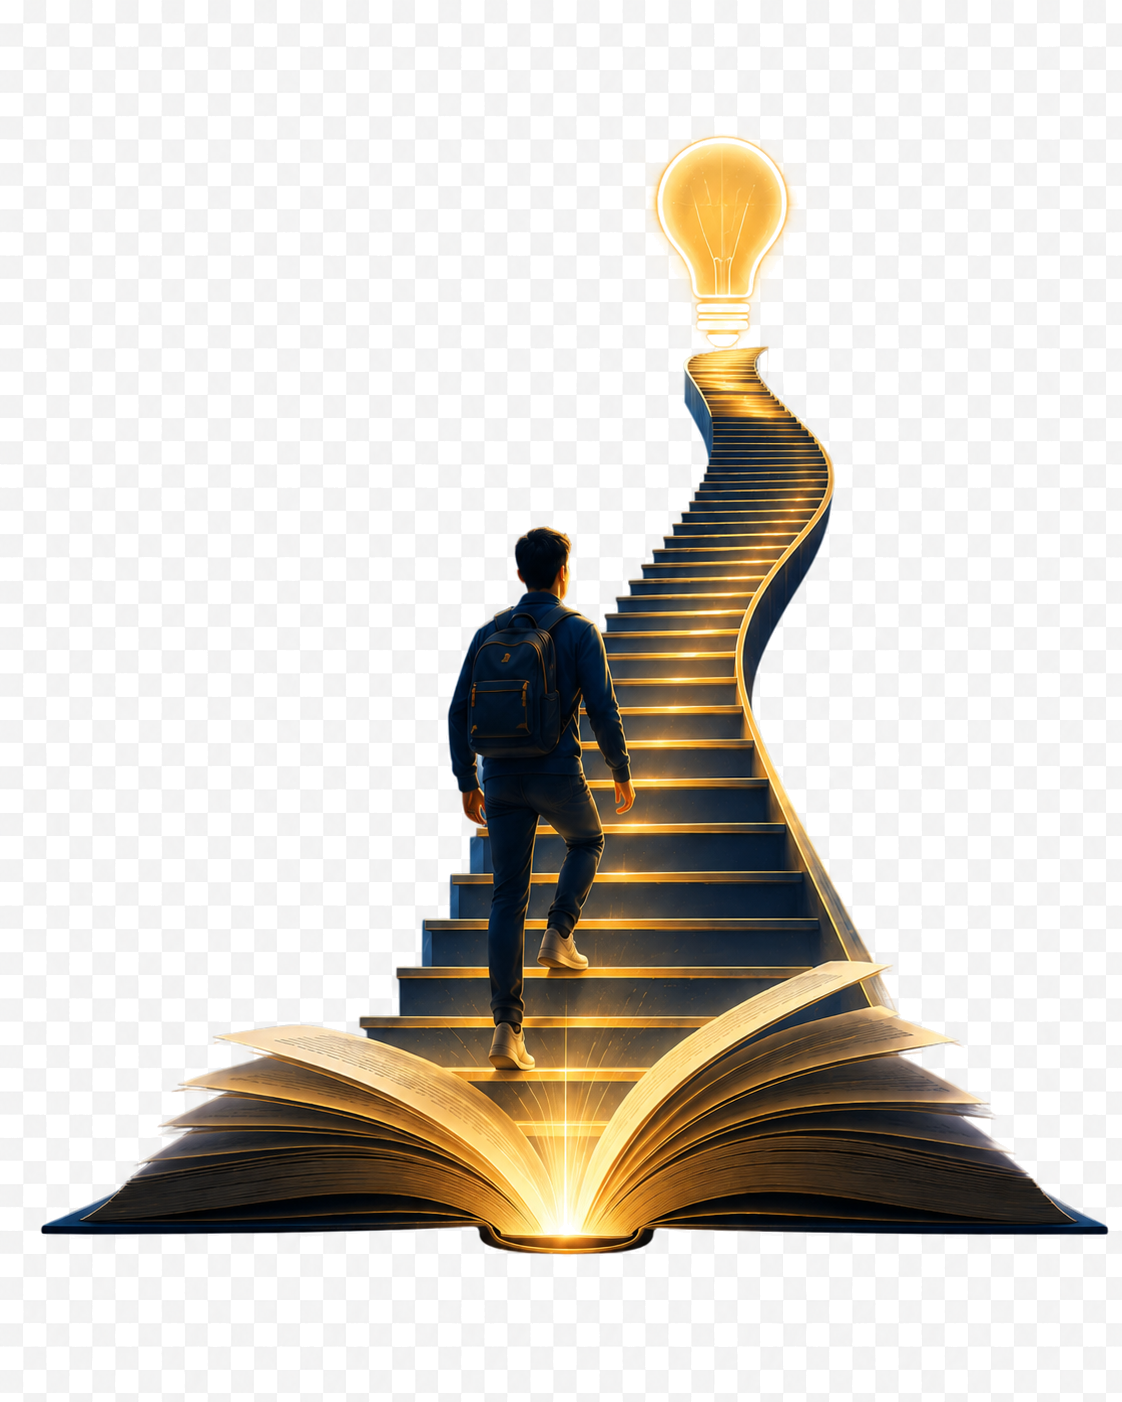
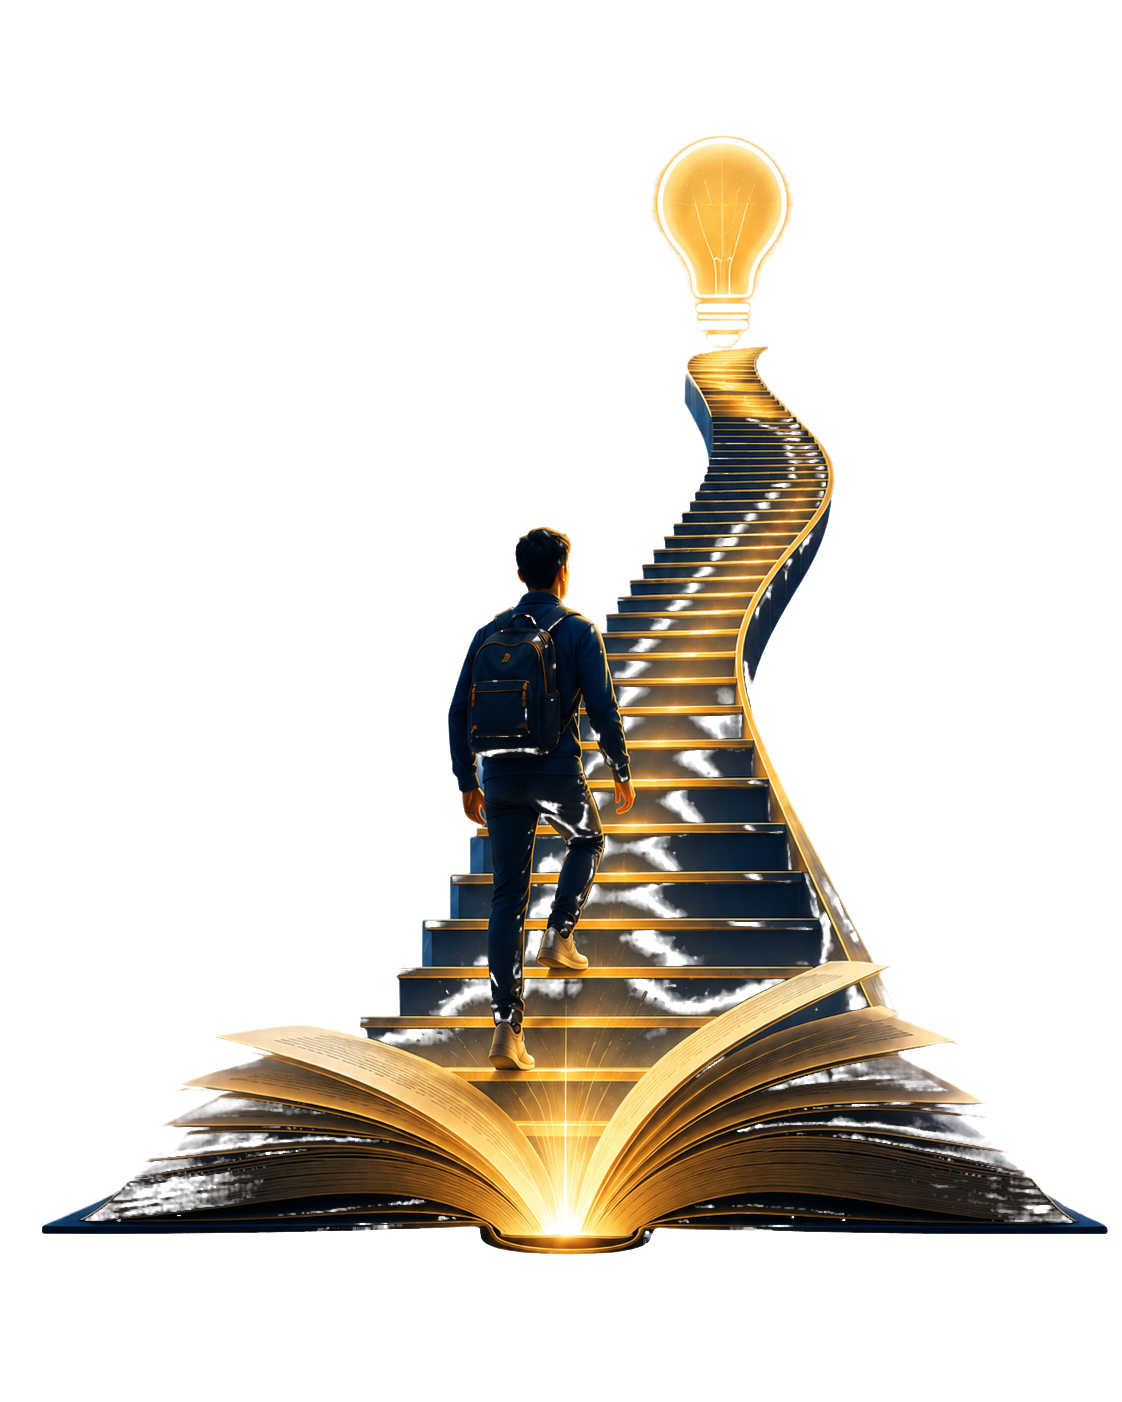
fix: clean hero ladder transparency

diff --git a/marketing/index.html b/marketing/index.html
@@ -42,7 +42,7 @@
       </div>
       <div class="hero-grid">
         <div class="hero-content">
-          <img class="hero-ladder-mark" src="/components/ladder.png?v=2" alt="" aria-hidden="true">
+          <img class="hero-ladder-mark" src="/components/ladder.png?v=3" alt="" aria-hidden="true">
           <p class="eyebrow">AI capability you can prove</p>
           <h1 id="heroTitle">Train for the AI work companies actually need done.</h1>
           <p class="hero-copy">The Ladder AI places each learner, guides them through practical conversations, and validates credentials with evidence a school, team, or employer can review.</p>

diff --git a/marketing/landing.css b/marketing/landing.css
@@ -237,7 +237,7 @@ a {
 
 .hero-ladder-mark {
   position: absolute;
-  top: clamp(3rem, 6vw, 5.2rem);
+  top: calc(clamp(3rem, 6vw, 5.2rem) - 1in);
   right: calc(100% + 1.75rem);
   width: clamp(170px, 18vw, 270px);
   height: auto;

diff --git a/welcome/index.html b/welcome/index.html
@@ -42,7 +42,7 @@
       </div>
       <div class="hero-grid">
         <div class="hero-content">
-          <img class="hero-ladder-mark" src="/components/ladder.png?v=2" alt="" aria-hidden="true">
+          <img class="hero-ladder-mark" src="/components/ladder.png?v=3" alt="" aria-hidden="true">
           <p class="eyebrow">AI capability you can prove</p>
           <h1 id="heroTitle">Train for the AI work companies actually need done.</h1>
           <p class="hero-copy">The Ladder AI places each learner, guides them through practical conversations, and validates credentials with evidence a school, team, or employer can review.</p>